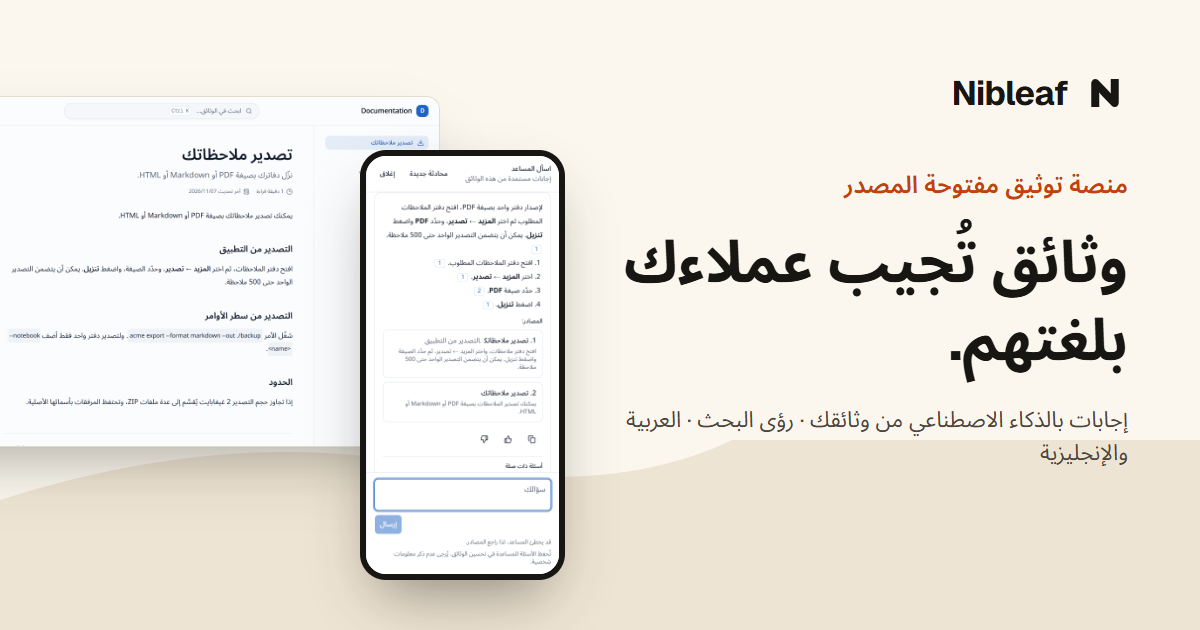
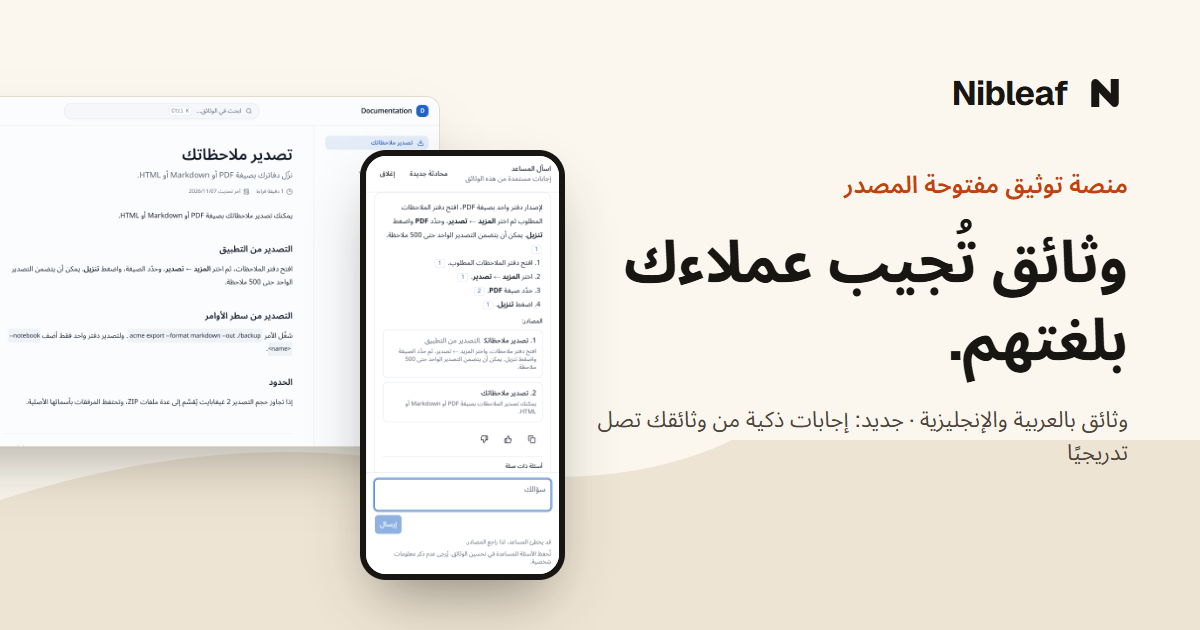
fix(marketing): qualify AI answers in previews and how-it-works, and keep /cloud to verified claims
- The landing title, meta descriptions and both OG cards say AI answers are
  rolling out instead of listing them as shipped.
- How-it-works and the Arabic-support FAQ carry the central Ask AI note; the
  hero caption uses the approved wording; the four steps get a 4-column grid.
- The llms item no longer claims per-page Markdown (newer than v0.1.2).
- /cloud drops "automatic upgrades, custom domains, analytics" (unverified for
  Cloud), says it omits rolling-out items, and its intro meets 4.5:1.
- lighthouse-back-to-back.json records the main vs branch runs (5 each).

Changed region(s): [[0.4933, 0.6333, 0.9558, 0.754]]

diff --git a/apps/app/src/components/marketing/copy/landing.ar.ts b/apps/app/src/components/marketing/copy/landing.ar.ts
@@ -191,7 +191,7 @@ export const landingAr: LandingCopy = {
       {
         icon: 'llms',
         title: 'جاهزة لأدوات الذكاء الاصطناعي',
-        body: 'تُدرَج الصفحات العامة القابلة للفهرسة في ملف llms.txt، ولكل منها نسخة بصيغة Markdown.',
+        body: 'تُدرَج الصفحات العامة القابلة للفهرسة في ملف llms.txt، ونصّها الكامل في llms-full.txt.',
       },
       {
         icon: 'key',
@@ -211,6 +211,7 @@ export const landingAr: LandingCopy = {
       { title: 'أجب', body: 'يبحث القرّاء أو يسألون المساعد، فتصلهم إجابات تُحيل إلى صفحاتك، بلغتهم.' },
       { title: 'حسّن', body: 'اعرف ما لم يجده القرّاء، ثم أصلحه في المحرر أو من مساعدك الذكي.' },
     ],
+    note: groupAvailabilityNote('«اسأل المساعد» ورؤى البحث وربط مساعدي الذكاء الاصطناعي', ['askAi', 'docsInsights', 'supportMcp'], 'ar'),
   },
   paths: {
     eyebrow: 'طريقتان للتشغيل',
@@ -275,7 +276,7 @@ export const landingAr: LandingCopy = {
       },
       {
         q: 'ما الفرق بين السحابة والاستضافة الذاتية؟',
-        a: 'المنتج المفتوح المصدر نفسه. على Nibleaf Cloud نتولى تشغيله عنك. أما في الاستضافة الذاتية فتثبّته على خوادمك بـ Docker Compose، وتختار التخزين والخدمات الاختيارية، وتتولى التحديثات والنسخ الاحتياطية. وتصل الميزات الجديدة إلى الاستضافة الذاتية مع أول إصدار يتضمنها.',
+        a: 'شيفرة واحدة مفتوحة المصدر. على Nibleaf Cloud نتولى تشغيله عنك. أما في الاستضافة الذاتية فتثبّته على خوادمك بـ Docker Compose، وتختار التخزين والخدمات الاختيارية، وتتولى التحديثات والنسخ الاحتياطية. وتصل الميزات الجديدة إلى الاستضافة الذاتية مع أول إصدار يتضمنها.',
       },
       {
         q: 'ماذا يحتاج «اسأل المساعد»، ومن يدفع كلفة الذكاء الاصطناعي؟',
@@ -295,7 +296,7 @@ export const landingAr: LandingCopy = {
       },
       {
         q: 'ما مستوى دعم العربية؟',
-        a: 'العربية لغة أساسية لا إضافة: محرر ولوحة تحكم وموقع وثائق من اليمين إلى اليسار، وشجرة صفحات مستقلة لكل لغة، وبحث يتعامل مع التشكيل واختلاف الإملاء، ومساعد يردّ بالعربية. وتتوفر واجهة لوحة التحكم بـ 12 لغة، مع بقاء بعض النصوص بالإنجليزية. أما محتواك فيمكن أن يكون بأي لغة.',
+        a: `العربية لغة أساسية لا إضافة: محرر ولوحة تحكم وموقع وثائق من اليمين إلى اليسار، وشجرة صفحات مستقلة لكل لغة، وبحث يتعامل مع التشكيل واختلاف الإملاء، ومساعد يردّ بالعربية. وتتوفر واجهة لوحة التحكم بـ 12 لغة، مع بقاء بعض النصوص بالإنجليزية. أما محتواك فيمكن أن يكون بأي لغة. ${groupAvailabilityNote('«اسأل المساعد»', ['askAi'], 'ar') ?? ''}`,
       },
       {
         q: 'ما المساعدات الذكية التي يمكن ربطها؟',

diff --git a/apps/app/src/components/marketing/copy/landing.en.ts b/apps/app/src/components/marketing/copy/landing.en.ts
@@ -181,7 +181,7 @@ export const landingEn: LandingCopy = {
       { icon: 'exports', title: 'Exports', body: 'Markdown, HTML or PDF, on demand or on a daily, weekly or monthly schedule.' },
       { icon: 'api', title: 'API reference', body: 'Import an OpenAPI file and get endpoint pages readers can try in the browser.' },
       { icon: 'private', title: 'Private docs', body: 'Share docs, or single pages, only with readers you invite.' },
-      { icon: 'llms', title: 'Ready for AI tools', body: 'Indexable public pages are listed in llms.txt, and each has a Markdown version.' },
+      { icon: 'llms', title: 'Ready for AI tools', body: 'Indexable public pages are listed in llms.txt, with their full text in llms-full.txt.' },
       {
         icon: 'key',
         title: 'Your own AI key',
@@ -200,6 +200,7 @@ export const landingEn: LandingCopy = {
       { title: 'Answer', body: 'Readers search, or ask AI and get answers that cite your pages, in their language.' },
       { title: 'Improve', body: 'See what readers couldn’t find, then fix it in the editor or from your AI assistant.' },
     ],
+    note: groupAvailabilityNote('Ask AI, insights and AI-assistant connections', ['askAi', 'docsInsights', 'supportMcp'], 'en'),
   },
   paths: {
     eyebrow: 'Two ways to run it',
@@ -259,7 +260,7 @@ export const landingEn: LandingCopy = {
       },
       {
         q: 'What’s the difference between Cloud and self-hosting?',
-        a: 'It’s the same open-source product. On Nibleaf Cloud, we run it for you. Self-hosted, you install it on your own servers with Docker Compose, choose your storage and optional services, and look after updates and backups. New features reach self-hosters with the next release that includes them.',
+        a: 'It’s one open-source codebase. On Nibleaf Cloud, we run it for you. Self-hosted, you install it on your own servers with Docker Compose, choose your storage and optional services, and look after updates and backups. New features reach self-hosters with the next release that includes them.',
       },
       {
         q: 'What do I need for Ask AI, and who pays for the AI?',
@@ -279,7 +280,7 @@ export const landingEn: LandingCopy = {
       },
       {
         q: 'How good is the Arabic support?',
-        a: 'Arabic is first-class: right-to-left editor, dashboard and docs site, a separate page tree per language, search that handles Arabic spelling and diacritics, and Ask AI replies in Arabic. The dashboard offers 12 interface languages, though some strings are still in English. Your content can be in any language.',
+        a: `Arabic is first-class: right-to-left editor, dashboard and docs site, a separate page tree per language, search that handles Arabic spelling and diacritics, and Ask AI replies in Arabic. The dashboard offers 12 interface languages, though some strings are still in English. Your content can be in any language. ${groupAvailabilityNote('Ask AI', ['askAi'], 'en') ?? ''}`,
       },
       {
         q: 'Which AI assistants can connect?',

diff --git a/apps/app/src/components/cloud-marketing.test.tsx b/apps/app/src/components/cloud-marketing.test.tsx
@@ -7,6 +7,7 @@ import { CloudPage } from './marketing/cloud-page';
 import { availabilityNote, heroAvailabilityNote, isRollingOut } from './marketing/copy/availability';
 import { landingAr } from './marketing/copy/landing.ar';
 import { landingEn } from './marketing/copy/landing.en';
+import { LANDING_META } from './marketing/copy/landing-meta';
 import { ArabicLandingPage } from './marketing/landing/arabic-landing-page';
 import { LandingPage } from './marketing/landing/landing-page';
 
@@ -128,5 +129,31 @@ describe('availability honesty', () => {
     for (const item of landingEn.more.items.filter((candidate) => candidate.availability && isRollingOut(candidate.availability))) {
       expect(root.textContent).not.toContain(item.title);
     }
+  });
+});
+
+describe('previews and secondary copy stay qualified', () => {
+  it('qualifies AI answers in the search and social preview text', () => {
+    expect(LANDING_META.en.title).not.toMatch(/AI answers/);
+    expect(LANDING_META.en.description).toMatch(/AI answers that cite your docs are rolling out/);
+    expect(LANDING_META.ar.description).toContain('تصل تدريجيًا');
+  });
+
+  it.each([
+    ['en', landingEn, LandingPage],
+    ['ar', landingAr, ArabicLandingPage],
+  ] as const)('captions the AI steps and answers that are still rolling out (%s)', (lang, copy, Page) => {
+    expect(copy.howItWorks.note).toContain(availabilityNote('askAi', lang));
+    const arabicAnswer = copy.faq.items.find((item) => item.q.includes(lang === 'ar' ? 'العربية' : 'Arabic'));
+    expect(arabicAnswer?.a).toContain(availabilityNote('askAi', lang));
+    expect(copy.more.items.find((item) => item.icon === 'llms')?.body).toContain('llms-full.txt');
+    const text = markup(renderToStaticMarkup(<Page />)).textContent ?? '';
+    expect(text).toContain(copy.howItWorks.note);
+  });
+
+  it('keeps unverified Cloud claims off the Cloud page', () => {
+    const text = markup(renderToStaticMarkup(<CloudPage />)).textContent ?? '';
+    expect(text).not.toMatch(/automatic upgrades|custom domains, analytics/);
+    expect(text).not.toContain(landingEn.paths.body);
   });
 });

diff --git a/apps/app/src/components/marketing/cloud-page.tsx b/apps/app/src/components/marketing/cloud-page.tsx
@@ -4,7 +4,7 @@ import { isRollingOut } from './copy/availability';
 import { landingEn } from './copy/landing.en';
 import { Eyebrow, outlineButton, primaryButton } from './site/primitives';
 
-/** The Nibleaf Cloud page (`/cloud`). Lists only capabilities already live on Cloud. */
+/** The Nibleaf Cloud page (`/cloud`). It omits capabilities that are still rolling out. */
 export function CloudPage({ stars = 0 }: { stars?: number }) {
   return (
     <MarketingShell stars={stars}>
@@ -14,9 +14,9 @@ export function CloudPage({ stars = 0 }: { stars?: number }) {
           <h1 className="mt-4 text-balance font-semibold text-4xl leading-tight tracking-tight sm:text-5xl">
             Hosted documentation sites, free during beta
           </h1>
-          <p className="mt-5 max-w-[72ch] text-lg text-muted-foreground leading-8">
-            Nibleaf managed for you: hosted dashboard, database and storage, automatic upgrades, custom domains, analytics, and multilingual authoring
-            with first-class RTL.
+          <p className="mt-5 max-w-[72ch] text-foreground/80 text-lg leading-8">
+            Nibleaf managed for you: hosted dashboard, database and storage, upgrades handled for you, and multilingual authoring with first-class
+            RTL.
           </p>
           <div className="mt-8 flex flex-wrap gap-3">
             <a className={primaryButton} href="/sign-up">
@@ -47,7 +47,9 @@ export function CloudPage({ stars = 0 }: { stars?: number }) {
         </div>
         <div className="mt-12 rounded-xl border border-border bg-card p-6">
           <h2 className="font-semibold text-2xl">{landingEn.paths.title}</h2>
-          <p className="mt-3 text-muted-foreground leading-7">{landingEn.paths.body}</p>
+          <p className="mt-3 text-muted-foreground leading-7">
+            Prefer your own servers? Install the AGPL-3.0 release with Docker Compose. New features reach it when a version that includes them ships.
+          </p>
           <a className={`${outlineButton} mt-6`} href="/self-hosting">
             {landingEn.paths.selfHost.cta.label}
           </a>

diff --git a/apps/app/src/components/marketing/copy/landing-meta.ts b/apps/app/src/components/marketing/copy/landing-meta.ts
@@ -17,9 +17,9 @@ export interface MarketingPageMeta {
 
 export const LANDING_META: Record<MarketingLang, MarketingPageMeta> = {
   en: {
-    title: 'Nibleaf: open-source docs with AI answers, English & Arabic',
+    title: 'Nibleaf: open-source docs and help center in English and Arabic',
     description:
-      'Open-source documentation platform and help center: AI answers that cite your docs, search insights, English and Arabic. Free cloud beta or self-host it.',
+      'Open-source docs and help center in English and Arabic. AI answers that cite your docs are rolling out. Free cloud beta, or self-host it.',
     ogImagePath: '/brand/raster/social/nibleaf-og-home.png',
     ogImageAlt:
       'Nibleaf, docs that answer your customers: a published docs page, with the Ask AI answer on a phone citing the sections it came from.',
@@ -27,7 +27,7 @@ export const LANDING_META: Record<MarketingLang, MarketingPageMeta> = {
   ar: {
     title: 'Nibleaf | منصة توثيق ومركز مساعدة بالعربية وRTL',
     description:
-      'منصة توثيق مفتوحة المصدر ومركز مساعدة لعملائك: توثيق عربي من اليمين إلى اليسار (RTL)، وإجابات ذكية تُحيل إلى صفحاتك. جرّب السحابة مجانًا أو استضفها بنفسك.',
+      'منصة توثيق مفتوحة المصدر ومركز مساعدة لعملائك: توثيق عربي من اليمين إلى اليسار (RTL)، وإجابات ذكية تُحيل إلى صفحاتك تصل تدريجيًا. جرّب السحابة مجانًا أو استضفها بنفسك.',
     ogImagePath: '/brand/raster/social/nibleaf-og-home-ar.png',
     ogImageAlt: 'Nibleaf، وثائق تُجيب عملاءك بلغتهم: صفحة وثائق منشورة، وعلى الهاتف إجابة «اسأل المساعد» مع الأقسام التي أُخذت منها.',
   },

diff --git a/apps/app/src/components/marketing/copy/availability.ts b/apps/app/src/components/marketing/copy/availability.ts
@@ -78,8 +78,8 @@ export function isRollingOut(capability: RolloutCapability): boolean {
 }
 
 const HERO_NOTES: Record<MarketingLang, string> = {
-  en: 'Ask AI, search insights and AI-assistant connections are new: they are in the open-source code now and rolling out to the self-hosted release and Nibleaf Cloud.',
-  ar: 'ميزات «اسأل المساعد» ورؤى البحث وربط مساعدي الذكاء الاصطناعي جديدة: موجودة الآن في الشيفرة المفتوحة المصدر، وتصل تدريجيًا إلى إصدار الاستضافة الذاتية وإلى Nibleaf Cloud.',
+  en: 'Ask AI, search insights and AI-assistant connections are new: they are in the open-source code now, arriving in the next self-hosted release and on Nibleaf Cloud as they roll out.',
+  ar: 'ميزات «اسأل المساعد» ورؤى البحث وربط مساعدي الذكاء الاصطناعي جديدة: موجودة الآن في الشيفرة المفتوحة المصدر، وتصل مع الإصدار القادم للاستضافة الذاتية وإلى Nibleaf Cloud تدريجيًا.',
 };
 
 /** One-line caption for the hero while any AI capability is still rolling out; `undefined` once all are live. */

diff --git a/apps/app/src/components/marketing/copy/types.ts b/apps/app/src/components/marketing/copy/types.ts
@@ -138,7 +138,14 @@ export interface LandingCopy {
     /** `availability` marks a capability that is still rolling out; its note renders with the item and Cloud-only lists leave it out. */
     items: { icon: MarketingIcon; title: string; body: string; availability?: RolloutCapability }[];
   };
-  howItWorks: { eyebrow: string; title: string; body: string; steps: { title: string; body: string }[] };
+  howItWorks: {
+    eyebrow: string;
+    title: string;
+    body: string;
+    steps: { title: string; body: string }[];
+    /** Rollout caption for steps that rely on capabilities still rolling out. */
+    note?: string;
+  };
   paths: { eyebrow: string; title: string; body: string; cloud: PathCard; selfHost: PathCard; detailsLink: Cta };
   compare: { eyebrow: string; title: string; body: string; links: (Cta & { description: string })[] };
   faq: { eyebrow: string; title: string; items: { q: string; a: string }[] };

diff --git a/apps/app/src/components/marketing/landing/landing-view.tsx b/apps/app/src/components/marketing/landing/landing-view.tsx
@@ -249,7 +249,7 @@ export function LandingView({
       <section className="border-border border-y bg-muted/20">
         <div className={section}>
           <Heading copy={copy.howItWorks} />
-          <ol className="mt-10 grid gap-8 md:grid-cols-3">
+          <ol className="mt-10 grid gap-8 sm:grid-cols-2 lg:grid-cols-4">
             {copy.howItWorks.steps.map((step, index) => (
               <li key={step.title} className="border-border border-t pt-5">
                 <span aria-hidden="true" className="font-mono text-primary text-sm">
@@ -260,6 +260,7 @@ export function LandingView({
               </li>
             ))}
           </ol>
+          {copy.howItWorks.note && <p className="mt-8 max-w-[72ch] text-muted-foreground text-xs leading-6">{copy.howItWorks.note}</p>}
         </div>
       </section>
 

diff --git a/apps/app/src/routes/cloud.tsx b/apps/app/src/routes/cloud.tsx
@@ -8,7 +8,7 @@ export const Route = createFileRoute('/cloud')({
     meta: pageMeta({
       title: 'Nibleaf Cloud — hosted documentation sites',
       description:
-        'Managed Nibleaf hosting: dashboard, database, storage, and upgrades handled for you, with custom domains and analytics. Free in beta, no credit card.',
+        'Managed Nibleaf hosting: dashboard, database, storage and upgrades handled for you. Free during the beta, with no credit card at sign-up.',
       path: '/cloud',
     }),
     links: [{ rel: 'canonical', href: canonicalHref('/cloud') }],

diff --git a/apps/app/src/components/marketing/media/manifest.ts b/apps/app/src/components/marketing/media/manifest.ts
@@ -142,7 +142,7 @@ export interface MediaEntry {
   /** Optional dark-theme captures. */
   wideDark?: ImageVariant;
   phoneDark?: ImageVariant;
-  /** Optional screen recording, played only when the visitor presses play (`preload="none"`). */
+  /** Optional screen recording, mounted only when the visitor presses play. */
   video?: { src: string; width: number; height: number };
 }
 

diff --git a/.github/assets/feat-landing-marketing-refresh/fact-check/copy-notes.md b/.github/assets/feat-landing-marketing-refresh/fact-check/copy-notes.md
@@ -172,3 +172,15 @@ Evidence keys: **F1–F12** are sections of `facts.md`. `path:line` items are co
 | Final CTA paragraph contrast in the light theme (about 4.2:1) | `text-foreground/80` instead of muted grey on the tinted panel. | `packages/design-system/src/styles/globals.css` tokens. |
 | Recording focus | Pressing play moves focus to the video instead of the page body. | `media/marketing-media.tsx`. |
 | Arabic wording | "يصرّح بذلك حين لا يجد إجابة". Reading time is "مدة القراءة: …" with the nominative count. | Reviewer suggestions. |
+
+## Round-3 scoring fixes — 2026-11-07
+
+| Claim | Change | Evidence |
+| --- | --- | --- |
+| Meta title, description and OG cards advertised AI answers with no qualifier | Title: "open-source docs and help center in English and Arabic". The descriptions and both OG cards say AI answers are "rolling out" (Arabic: «تصل تدريجيًا»). | `copy/availability.ts`: `askAi` is `in-source`, and `site-chat.ts` and `answer-chat.ts` are absent from v0.1.2 |
+| "…and each has a Markdown version" | "…with their full text in llms-full.txt" | Per-page Markdown arrived with #142 (2026-09-03, `packages/shared/src/public-markdown.ts`). v0.1.2 has `llms.txt` and `llms-full.txt` only. |
+| How-it-works steps 3–4 and the Arabic-support FAQ ("Ask AI replies in Arabic") had no note | Both carry the central note | `copy/availability.ts` |
+| Hero caption said "rolling out to the self-hosted release" | Now the approved wording: "arriving in the next self-hosted release and on Nibleaf Cloud as they roll out" | Owner-approved phrase |
+| The Cloud vs self-host FAQ opened "It's the same open-source product" | "It's one open-source codebase." | Matches the paths section |
+| `/cloud` claimed "automatic upgrades, custom domains, analytics", and its code comment said "live on Cloud" | "upgrades handled for you"; custom domains and analytics removed from the hero and the route description. The comment now says it omits capabilities still rolling out. | Cloud is a manual, pinned deploy, and its feature set is unverified (A14 and A15 above) |
+| `/cloud` intro contrast in the light theme (about 4.2:1) | `text-foreground/80` | Same tokens as the final CTA fix |
